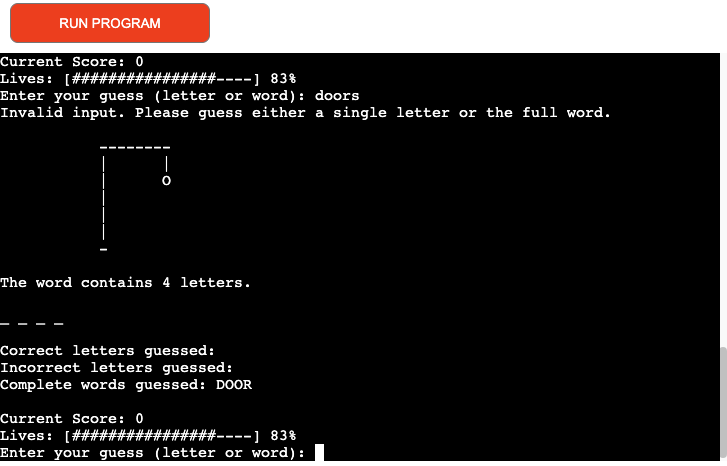
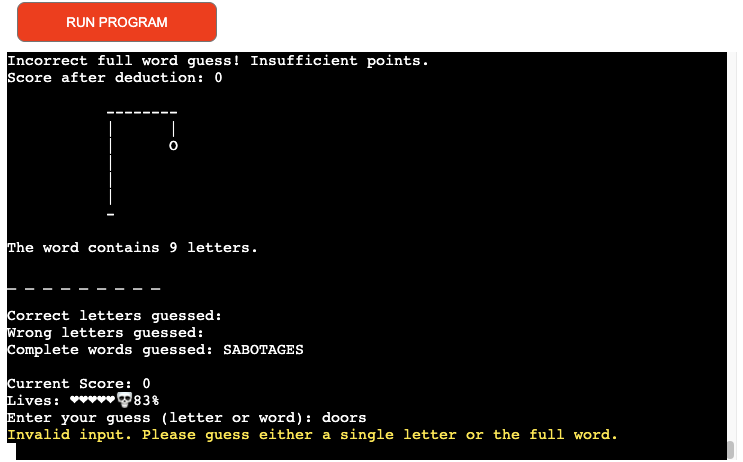
Update the guessed words and guess validation section in the readme file

diff --git a/README.md b/README.md
@@ -106,7 +106,7 @@ If the letter is not in the word, the notification will display in red, indicati
 If a player incorrectly guesses a word, it will be added to a list of incorrect word attempts. This list is displayed to the player, providing a clear record of unfruitful guesses, assisting in formulating future strategies, and preventing repeated attempts.
 
 *Word Guessed*<br>
-![Word Guessed](docs/screenshots/wrongword.png)
+![Word Guessed](docs/screenshots/wordguessed.png)
 
 ### Guess Validation 
 
